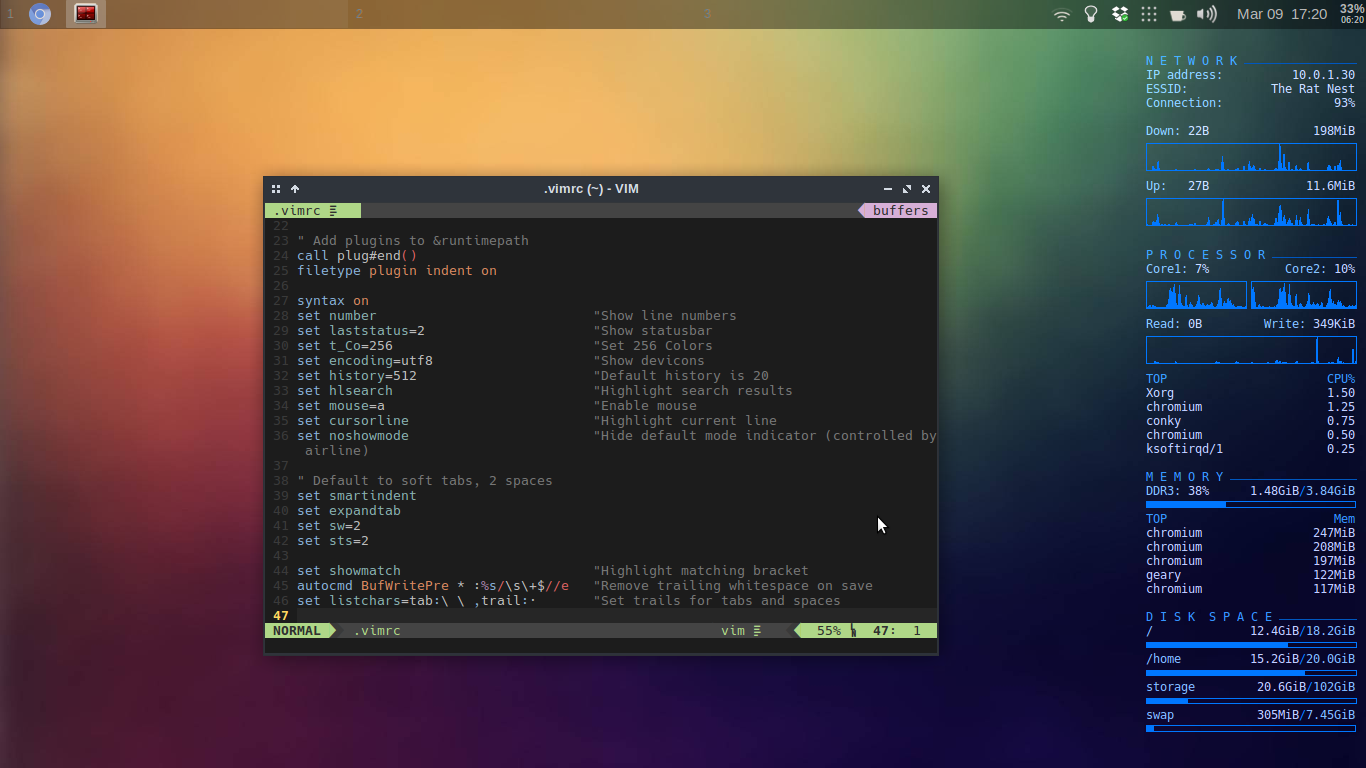
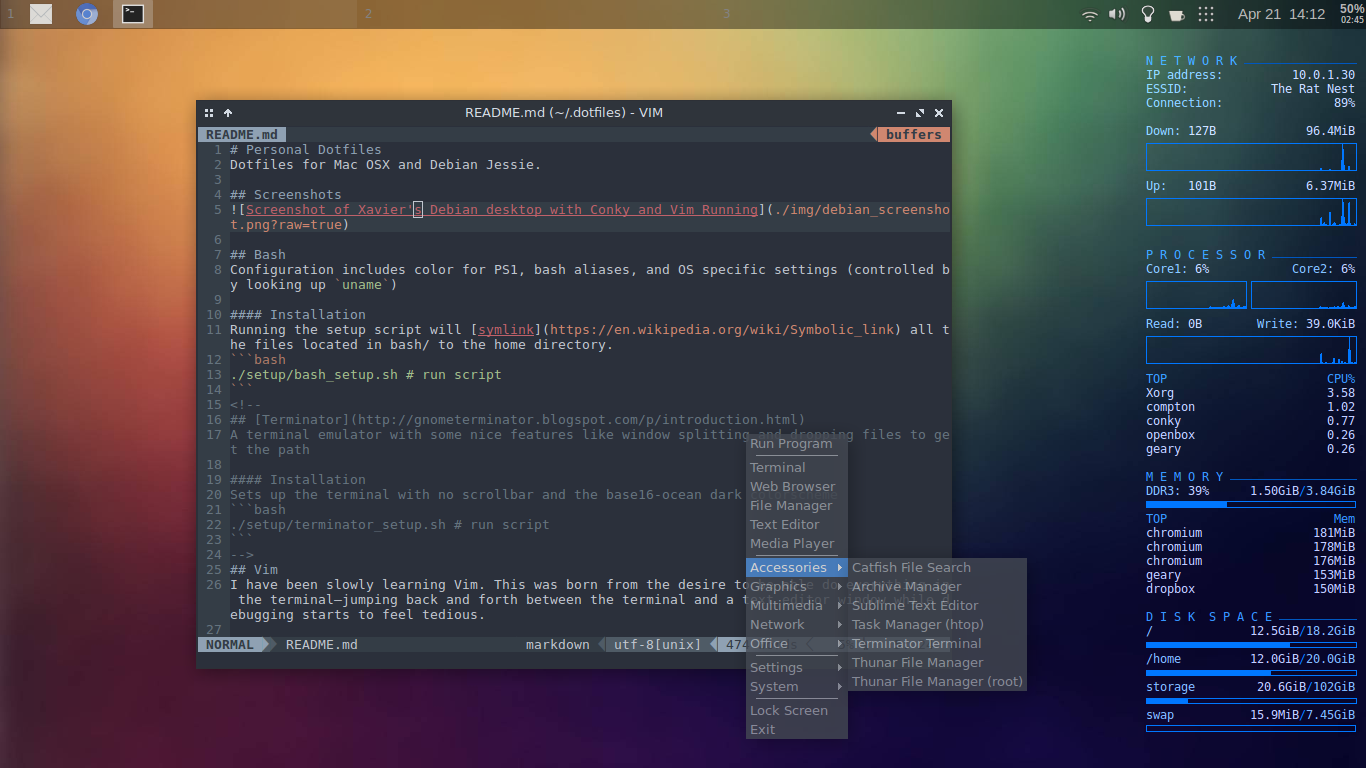
Change headings level in README & update deb screenshot

diff --git a/README.md b/README.md
@@ -2,12 +2,12 @@
 Dotfiles for Mac OSX and Debian Jessie.
 
 ## Screenshots
-![Screenshot of my Debian desktop with Conky and Vim Running](./img/debian_screenshot.png?raw=true)
+![Screenshot of Xavier's Debian desktop with Conky and Vim Running](./img/debian_screenshot.png?raw=true)
 
 ## Bash
 Configuration includes color for PS1, bash aliases, and OS specific settings (controlled by looking up `uname`)
 
-### Installation
+#### Installation
 Running the setup script will [symlink](https://en.wikipedia.org/wiki/Symbolic_link) all the files located in bash/ to the home directory.
 ```bash
 ./setup/bash_setup.sh # run script
@@ -16,7 +16,7 @@ Running the setup script will [symlink](https://en.wikipedia.org/wiki/Symbolic_l
 ## [Terminator](http://gnometerminator.blogspot.com/p/introduction.html)
 A terminal emulator with some nice features like window splitting and dropping files to get the path
 
-### Installation
+#### Installation
 Sets up the terminal with no scrollbar and the base16-ocean dark colorscheme
 ```bash
 ./setup/terminator_setup.sh # run script
@@ -25,13 +25,13 @@ Sets up the terminal with no scrollbar and the base16-ocean dark colorscheme
 ## Vim
 I have been slowly learning Vim. This was born from the desire to be able do everything in the terminal—jumping back and forth between the terminal and a text editor window while debugging starts to feel tedious.
 
-### Installation
+#### Installation
 Running the setup script will symlink _vimrc_ to your home directory, installs [vim-plug](https://github.com/junegunn/vim-plug) (if it is not already installed) and installs or updates plugins
 ```bash
 ./setup/vim_setup.sh # run script
 ```
 
-### Plugins
+#### Plugins
 Plugin | Description
 ------ | -----------
 [html5.vim](https://github.com/othree/html5.vim) | HTML5 + inline SVG omnicomplete function, indent and syntax
@@ -72,10 +72,10 @@ I use conky to monitor:
 ## [Openbox](http://openbox.org/wiki/Main_Page)
 Openbox lightweight stacking windows manager. Many of my settings are based of off the defaults that came with Crunchbang linux (defunct, but forked as [BunsenLabs](https://www.bunsenlabs.org/))
 
-### Dependencies
+#### Dependencies
 This configuration requires [cb-pipemenus](https://github.com/gearge/cb-pipemenus) to be in your `$PATH`
 
-### Installation
+#### Installation
 Setup script will symlink `autostart`, `rc.xml`, `menu.xml` into `$HOME/.config/openbox`
 ```bash
 ./setup/openbox_setup.sh # run script
